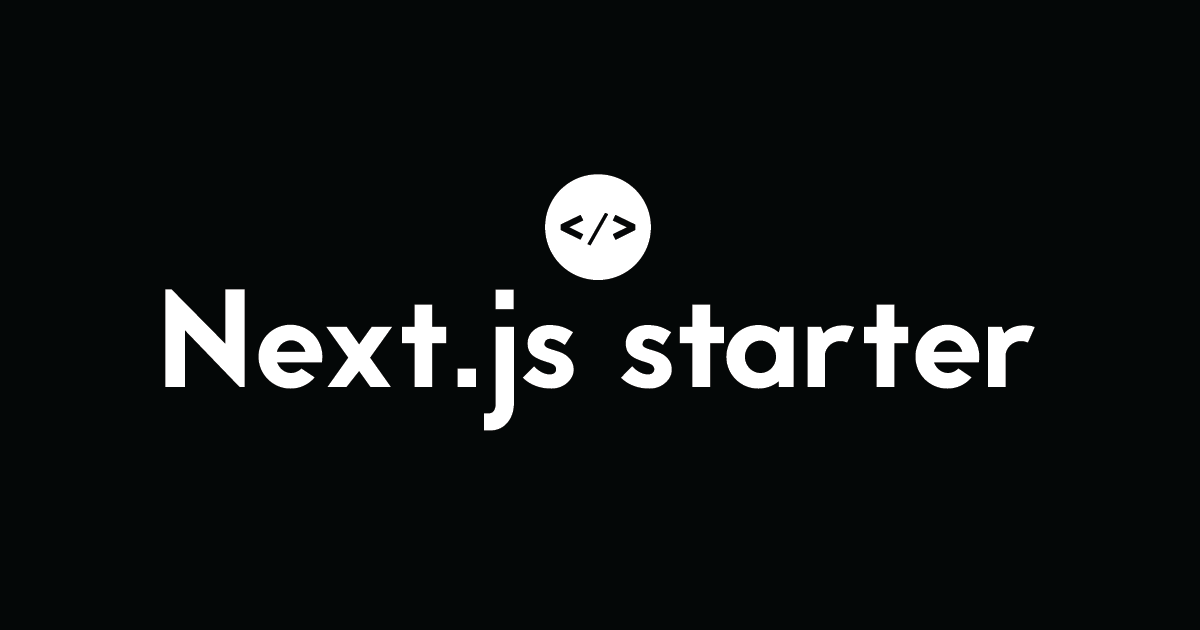
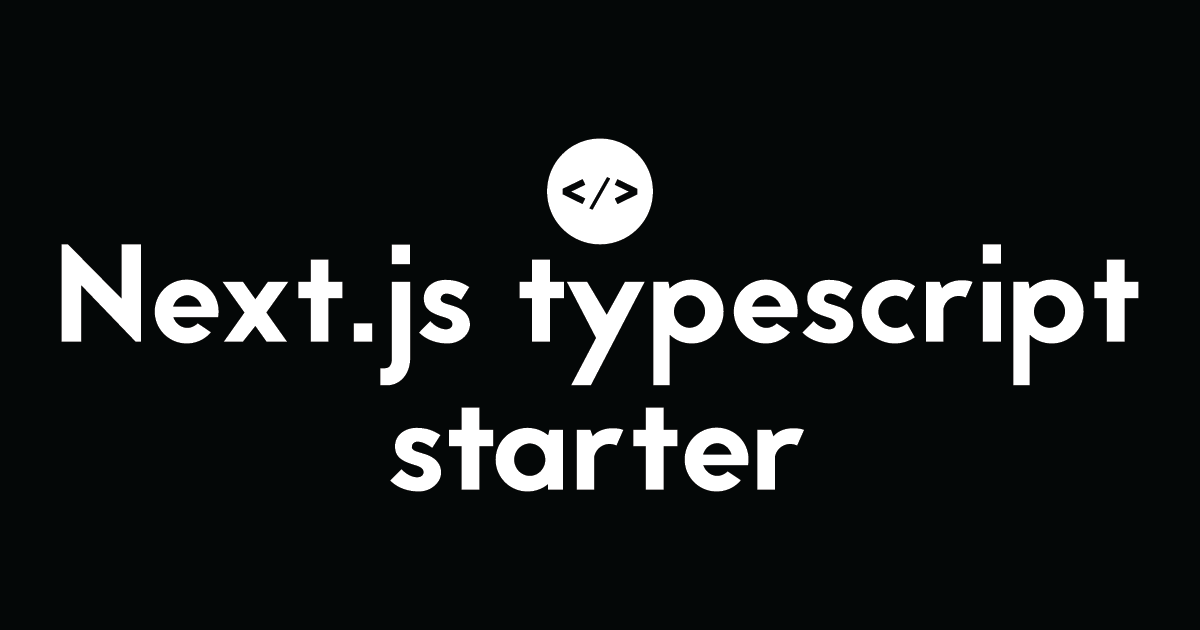
add og-image

Changed region(s): [[0.0308, 0.2111, 0.9558, 0.7841], [0.3083, 0.3921, 0.3392, 0.4222]]

diff --git a/components/MetaData.tsx b/components/MetaData.tsx
@@ -7,7 +7,7 @@ export default function MetaData({ ...customMeta }: MetaDataProps) {
     const meta: MetaDataProps = {
         title: 'Next.js typescript starter',
         description:
-            'A Next.js starter that includes a collection of reusable components, hooks, and utilities to build amazing projects with complex animations and page transitions using GSAP.',
+            'A Next.js typescript starter that includes a collection of reusable components, hooks, and utilities to build amazing projects with complex animations and page transitions using GSAP.',
         image: `${process.env.NEXT_PUBLIC_BASE_URL}/static/og-image.png`,
         type: 'website',
         ...customMeta,
